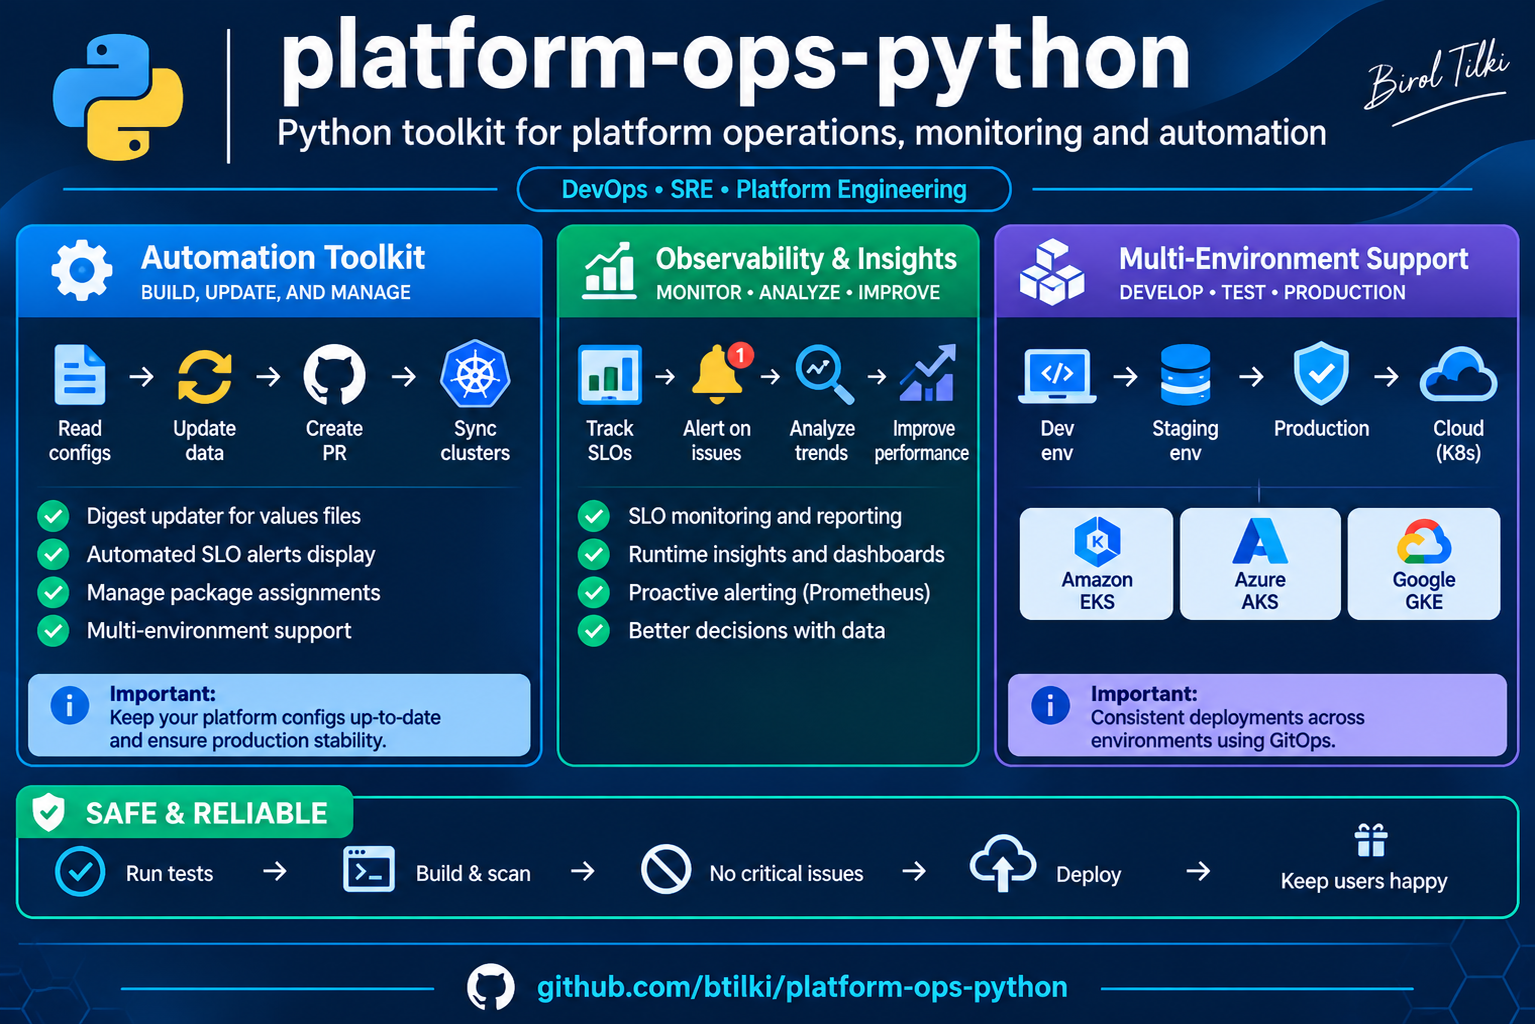
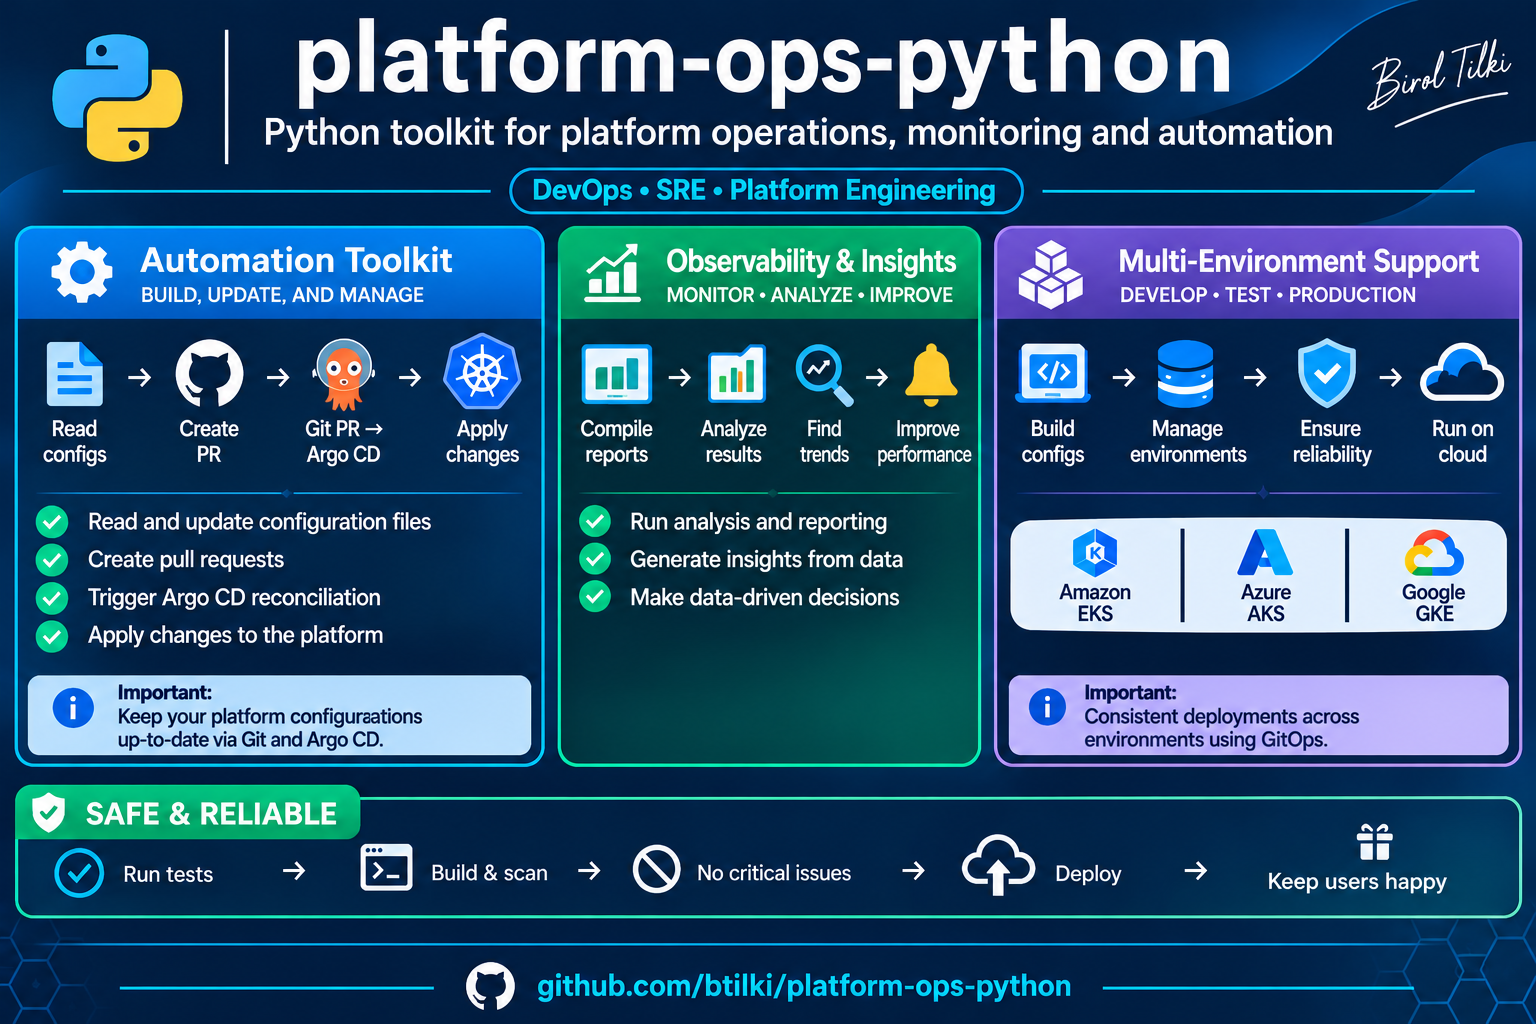
Update portfolio infographic v2 and assets catalog.
Align Portfolio overview copy and changelog with GitOps-to-Argo artwork and pillar-to-CLI mapping notes.

Changed region(s): [[0.0, 0.0, 1.0, 1.0], [0.8879, 0.0312, 0.9798, 0.125], [0.0306, 0.0938, 0.0919, 0.125]]

diff --git a/assets/images/README.md b/assets/images/README.md
@@ -2,18 +2,20 @@
 
 | File | What it shows |
 | --- | --- |
-| [platform-ops-python-cli-infographic.png](platform-ops-python-cli-infographic.png) | Portfolio poster: automation / observability / multi-environment pillars and EKS·AKS·GKE links |
+| [platform-ops-python-cli-infographic.png](platform-ops-python-cli-infographic.png) | Portfolio poster: Git PR → Argo CD, observability and multi-env pillars, EKS·AKS·GKE, safe-change footer |
 
-## Infographic layout (2026-11)
+## Infographic layout (2026-11, v2)
 
-- **Header:** `platform-ops-python` — “Python toolkit for platform operations, monitoring and automation”; pill **DevOps • SRE • Platform Engineering**; author signature.
-- **Automation column:** GitOps-style flow (config → PR → reconcile). **In this repo:** `promotion-bot` (digest pin, optional `--open-pr`), `platform-tenant render` (tenant YAML).
-- **Observability column:** SLO and alerting motif. **In this repo:** `slo-kit compile` (PrometheusRule YAML), `slo-kit report` (error-budget band). No dashboards or live Prometheus queries.
-- **Multi-environment column:** dev → staging → prod and **EKS**, **AKS**, **GKE** (Boutique sibling repos).
-- **Footer pipeline:** tests → build and scan → no critical issues → merge Git → Argo CD reconciles. **Not** `kubectl apply` from these CLIs.
+- **Header:** `platform-ops-python`, Python toolkit subtitle, pill **DevOps • SRE • Platform Engineering**, author signature.
+- **Automation:** configs → GitHub PR → **Git PR → Argo CD** → platform changes via GitOps. Maps to **`promotion-bot`** (digest pin, `--open-pr`) and **`platform-tenant render`** (tenant YAML to Git).
+- **Observability:** SLO-style monitor / analyze / improve motif. Maps to **`slo-kit compile`** (`PrometheusRule` YAML) and **`slo-kit report`** (error-budget band)—not live dashboards or Prometheus queries from this repo.
+- **Multi-environment:** dev → staging → prod; logos **EKS**, **AKS**, **GKE** (Boutique sibling repos); adjacent promotion path in code (`dev → staging → prod`).
+- **Footer (SAFE & RELIABLE):** run tests → build and scan → no critical issues → **Deploy** (end-to-end platform flow) → keep users happy. **Deploy here means merge GitOps and let Argo CD reconcile**—these CLIs do not deploy or `kubectl apply`.
 
-**Not implemented in this repository:** cluster sync from the CLIs, runtime dashboards, package assignment managers, or deploy actions initiated by these commands.
+**Outside these CLIs:** Argo CD API calls, `kubectl apply`, and cluster sync driven by Python.
 
-The root [README](../../README.md) is the source of truth: three CLIs (`promotion-bot`, `slo-kit`, `platform-tenant`), dry-run by default, **no** `kubectl apply`. Package maturity is **Alpha** (`pyproject.toml`, README badge).
+The root [README](../../README.md) has commands, flags, exit codes, and examples.
 
 Referenced from the root README under **Portfolio overview**.
+
+**Art check:** If the Automation “Important” callout still reads **configuraations**, fix the spelling in your design file and re-export.

diff --git a/README.md b/README.md
@@ -40,7 +40,7 @@ Similar tools already exist (Argo CD Image Updater, Renovate, Sloth, Crossplane)
 
 ## Portfolio overview
 
-The infographic below is **positioning only** (high-level pillars and Boutique cloud links). It does not deploy or sync clusters. Behaviour and commands for the three CLIs are in sections 1–3, [Non-goals](#non-goals), and [docs](docs).
+The infographic summarizes the three CLIs and GitOps → Argo CD flow. It does not run `kubectl apply` or call Argo CD from Python. Commands and behavior are in sections 1–3, [Non-goals](#non-goals), and [docs](docs).
 
 ![Platform Ops Python — portfolio infographic](assets/images/platform-ops-python-cli-infographic.png)
 

diff --git a/CHANGELOG.md b/CHANGELOG.md
@@ -2,6 +2,7 @@
 
 ## Unreleased
 
+- Portfolio infographic v2 (Git PR → Argo CD, SAFE & RELIABLE footer); refresh `assets/images/README.md`
 - Rename README section to **Portfolio overview**; map infographic pillars to real CLIs in `assets/images/README.md`
 - Replace CLI infographic art; document accurate capabilities vs poster copy
 - Link boutique-gke-sre `manifest-digest-pr` workflow; document `--path-in-repo` and promotion exit codes
